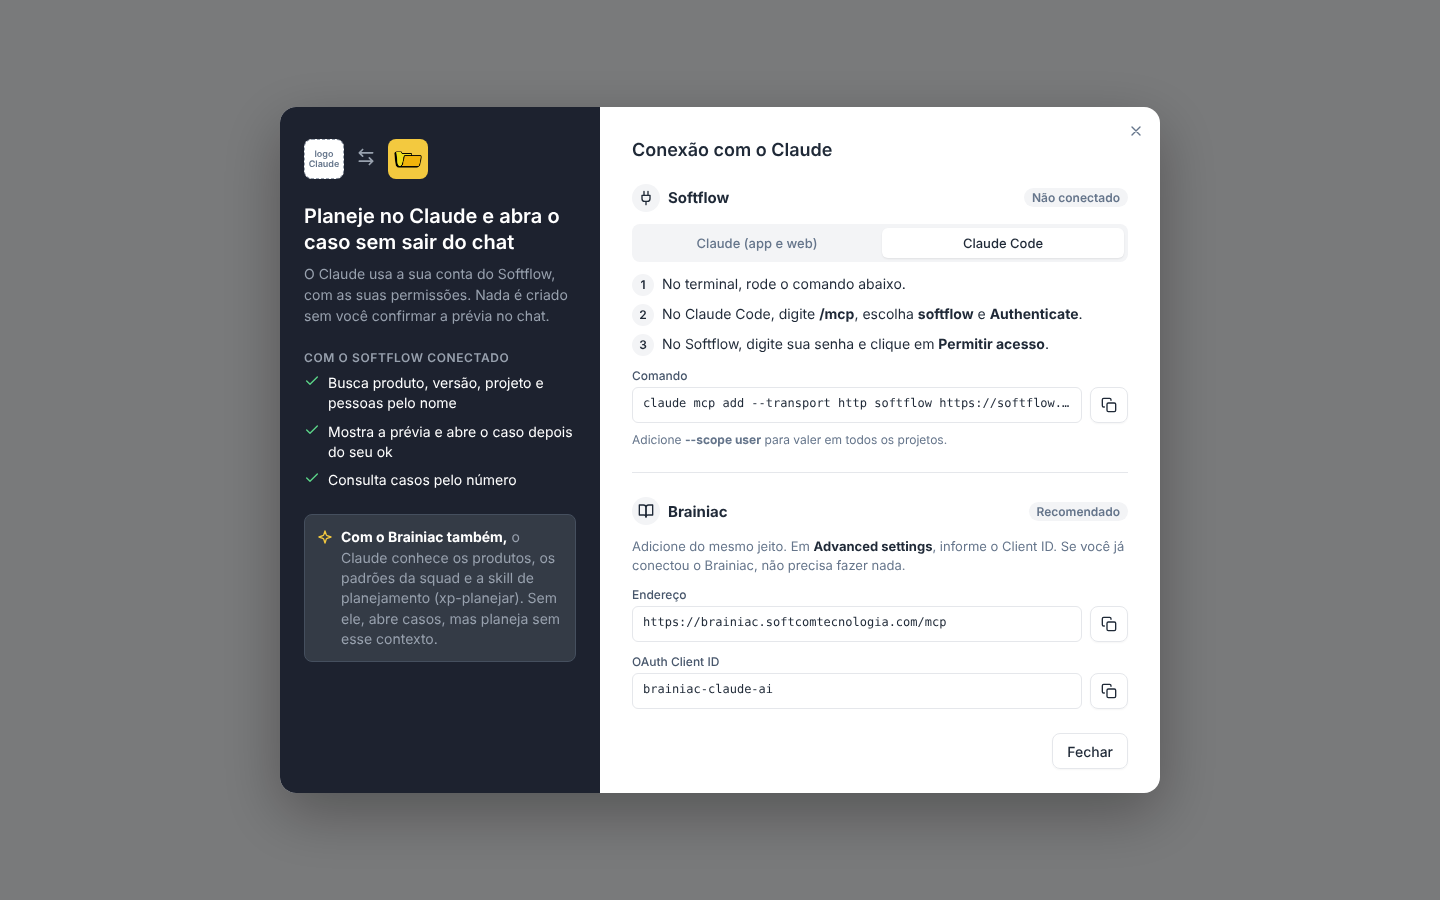
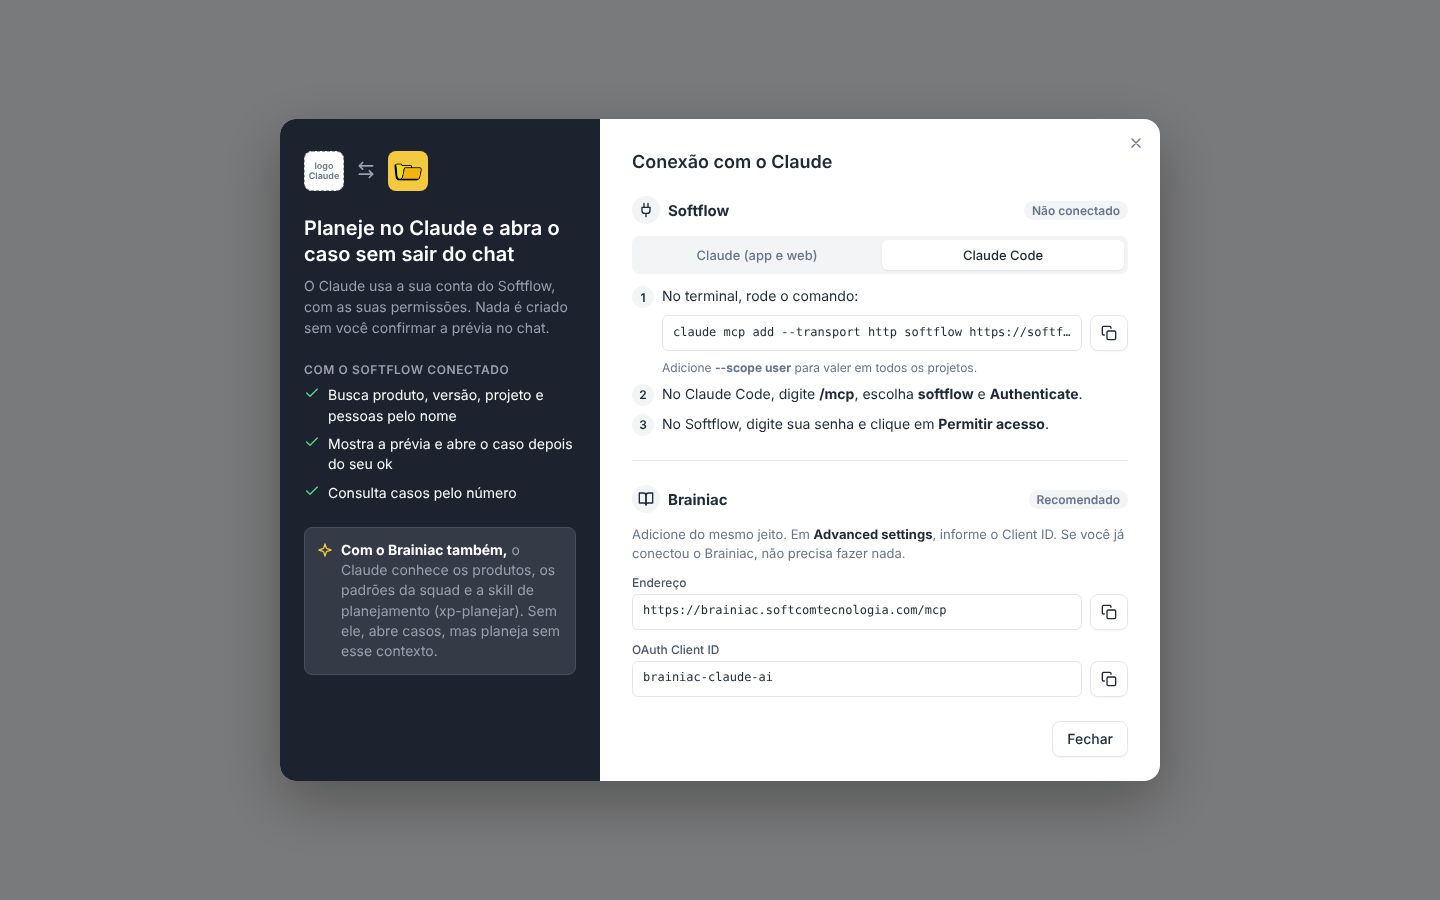
docs(conector-claude): comando e endereço dentro do passo que os usa (decisão #26)
Claude-Session: https://claude.ai/code/session_01GaQZ7CaVWoarm8kGJnLeJC

diff --git a/docs/conector-claude/prototipo/modal-duas-colunas.html b/docs/conector-claude/prototipo/modal-duas-colunas.html
@@ -74,6 +74,7 @@
   .b-out{border-color:var(--bi);box-shadow:0 1px 2px rgba(0,0,0,.04)}
   .b-ds{background:var(--destr-bg);color:var(--destr)}
   .hidden{display:none!important}
+  .stc{flex:1;min-width:0;display:flex;flex-direction:column;gap:8px}
   .seg{display:flex;gap:4px;background:var(--muted);border-radius:8px;padding:4px}
   .seg span{flex:1;height:30px;border-radius:6px;display:flex;align-items:center;justify-content:center;font-weight:500;color:var(--ts);font-size:13px}
   .seg span.on{background:var(--card);color:var(--tp);box-shadow:0 1px 2px rgba(0,0,0,.08)}
@@ -141,19 +142,16 @@
         <div class="p-app">
           <ol class="st">
             <li><span class="n">1</span><span>No Claude, abra <b>Customize → Connectors → Add custom connector</b>.</span></li>
-            <li><span class="n">2</span><span>Cole o endereço abaixo e clique em <b>Add</b>.</span></li>
+            <li><span class="n">2</span><div class="stc"><span>Cole o endereço e clique em <b>Add</b>:</span><div class="copy"><code>https://softflow.hostsoftcom.cloud/api/mcp</code><button class="b b-out" aria-label="Copiar endereço do Softflow" style="padding:0 10px"><svg class="i"><use href="#copy"/></svg></button></div></div></li>
             <li><span class="n">3</span><span>No Softflow, digite sua senha e clique em <b>Permitir acesso</b>.</span></li>
           </ol>
-          <div class="fld" style="margin-top:12px"><div class="k">Endereço do conector</div><div class="copy"><code>https://softflow.hostsoftcom.cloud/api/mcp</code><button class="b b-out" aria-label="Copiar endereço do Softflow" style="padding:0 10px"><svg class="i"><use href="#copy"/></svg></button></div></div>
         </div>
         <div class="p-code">
           <ol class="st">
-            <li><span class="n">1</span><span>No terminal, rode o comando abaixo.</span></li>
+            <li><span class="n">1</span><div class="stc"><span>No terminal, rode o comando:</span><div class="copy"><code>claude mcp add --transport http softflow https://softflow.hostsoftcom.cloud/api/mcp</code><button class="b b-out" aria-label="Copiar comando do Claude Code" style="padding:0 10px"><svg class="i"><use href="#copy"/></svg></button></div><p class="note">Adicione <b>--scope user</b> para valer em todos os projetos.</p></div></li>
             <li><span class="n">2</span><span>No Claude Code, digite <b>/mcp</b>, escolha <b>softflow</b> e <b>Authenticate</b>.</span></li>
             <li><span class="n">3</span><span>No Softflow, digite sua senha e clique em <b>Permitir acesso</b>.</span></li>
           </ol>
-          <div class="fld" style="margin-top:12px"><div class="k">Comando</div><div class="copy"><code>claude mcp add --transport http softflow https://softflow.hostsoftcom.cloud/api/mcp</code><button class="b b-out" aria-label="Copiar comando do Claude Code" style="padding:0 10px"><svg class="i"><use href="#copy"/></svg></button></div></div>
-          <p class="note" style="margin-top:8px">Adicione <b>--scope user</b> para valer em todos os projetos.</p>
         </div>
       </div>
 

diff --git a/docs/conector-claude/README.md b/docs/conector-claude/README.md
@@ -146,11 +146,16 @@ com as regras do conector; nada a tratar no Softflow.
    - **Sem conexão:** acima dos passos do Softflow, um seletor segmentado **Claude (app e web)** |
      **Claude Code** (abre em "Claude (app e web)"; lembra a última escolha em `localStorage`, com
      try/catch). Na aba Claude Code:
-     1. "No terminal, rode o comando abaixo." com o campo **Comando**
-        `claude mcp add --transport http softflow <endereço do conector>` e copiar só com ícone;
+     1. "No terminal, rode o comando:" com o campo do comando
+        `claude mcp add --transport http softflow <endereço do conector>` (copiar só com ícone)
+        **dentro do próprio passo**, logo abaixo do texto, e a nota "Adicione **--scope user** para
+        valer em todos os projetos.";
      2. "No Claude Code, digite **/mcp**, escolha **softflow** e **Authenticate**.";
-     3. "No Softflow, digite sua senha e clique em **Permitir acesso**.";
-     e a nota "Adicione **--scope user** para valer em todos os projetos."
+     3. "No Softflow, digite sua senha e clique em **Permitir acesso**."
+   - **O que copiar fica dentro do passo que o usa** (decisão #26): na aba Claude (app e web), o campo
+     do endereço do conector sai de baixo da lista e vai para dentro do passo 2 ("Cole o endereço e
+     clique em **Add**:"). Os passos são uma lista em que o item pode ter um bloco abaixo do texto,
+     alinhado com o texto (não com o número).
    - **Conectado:** o quadro de hoje vira uma lista com uma linha por tipo: **Claude (app e web)** e
      **Claude Code**, cada uma com "Desde … · usado há …" (ou "Para implementar casos no terminal"
      quando não conectada), a pílula Conectado/Não conectado e, à direita, o botão **Desconectar** só

diff --git a/docs/conector-claude/decisoes.md b/docs/conector-claude/decisoes.md
@@ -164,3 +164,9 @@ Claude, 2026-11-19, com protótipo em [`prototipo/`](prototipo/).
     mesmo dev usa o Claude no app para planejar e o Claude Code para implementar; com uma conexão
     por pessoa, conectar um derrubaria o outro. O tipo sai do `redirect_uri` (loopback = Claude
     Code), que é o que de fato diferencia os dois clientes.
+
+26. **No passo a passo do modal, o campo de copiar (endereço ou comando) fica dentro do passo que o
+    usa, logo abaixo do texto, e não depois da lista.** Vale para as abas Claude (app e web) e Claude
+    Code da seção Softflow. **Por quê:** com o comando do Claude Code abaixo do passo 3, o usuário
+    leu o passo 2 ("digite /mcp e escolha softflow") sem ter visto o comando que faz o softflow
+    aparecer, e o fluxo ficou confuso (2026-11-25).
